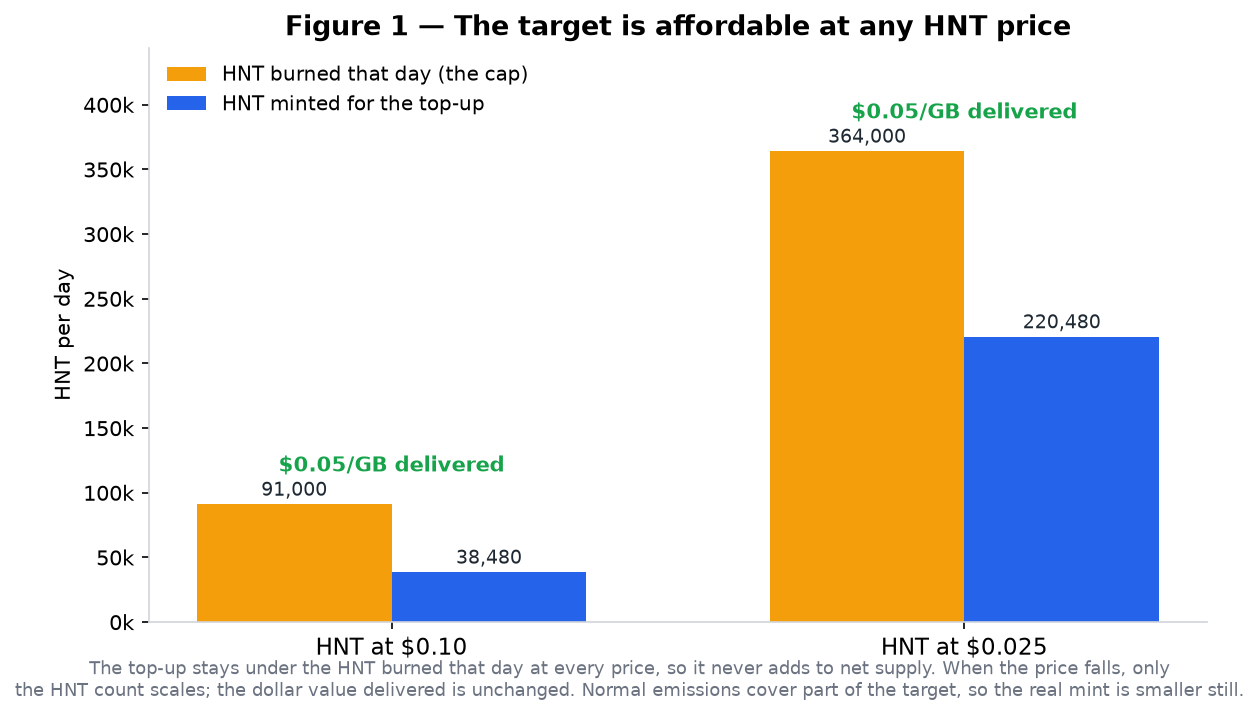
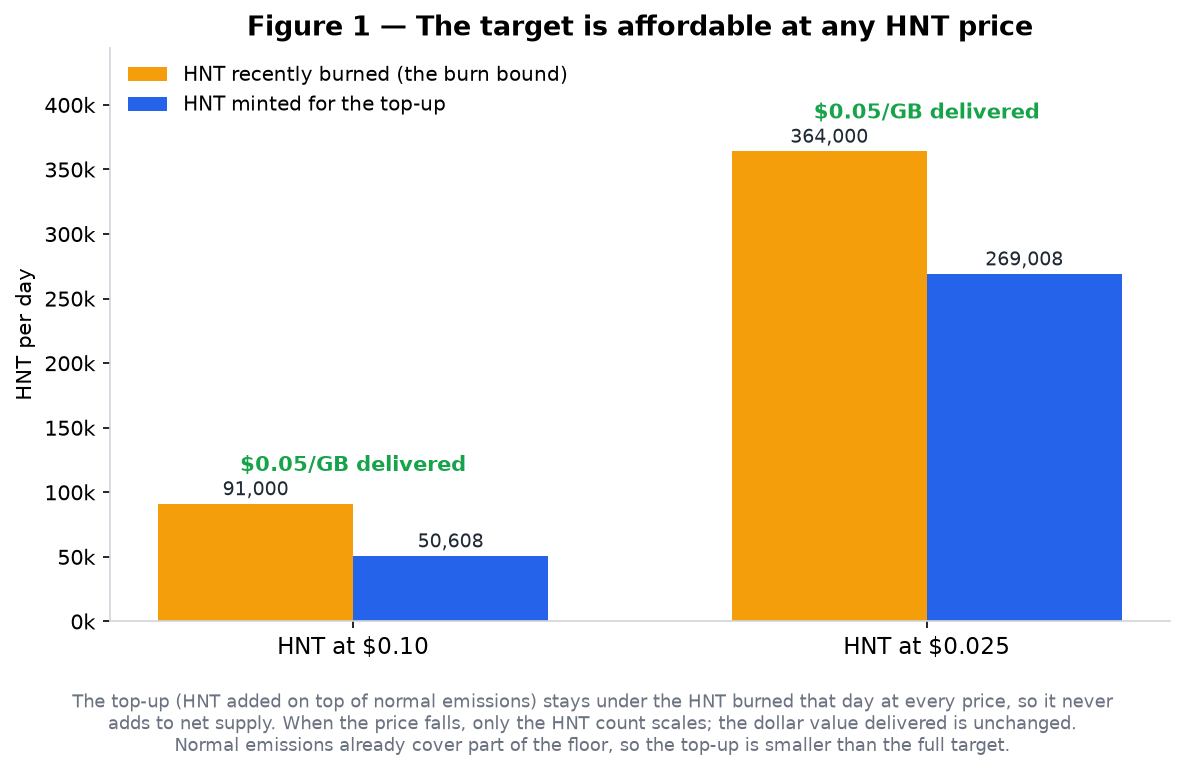
HIP 149: align Decision 1 figure inputs and tighten labels (#1227)
Align the figure inputs to the HIP body: alpha 0.75 -> 0.625 and baseline
16,640 -> 13,870 HNT/day (70% data bucket x ~0.89 Mobile share), which the
figures had retained from the earlier 84%-bucket draft. The top-up bars
become 50,608 / 269,008 HNT (still under the 91,000 / 364,000 burn bound) and
delivery holds at $0.05/GB at both prices.

Clarify the labels without changing the mechanism or the "top-up" term:
captions now state the top-up is HNT added on top of normal emissions (the
added amount, never the new daily total), and the burn-bounded series is
labeled "the burn bound" rather than "the cap" to avoid colliding with the
deployer earnings cap.

Pull request: HIP 149: align Decision 1 figure inputs and tighten labels
Regenerates the two Decision 1 figures. Keeps the "top-up" term (the reviewer is fine with it for the added amount); the change is the stale inputs plus label precision. Figures only.

## Numbers
- Aligned the figure inputs to the HIP body: `α` 0.75 → 0.625 and baseline 16,640 → 13,870 HNT/day (70% data bucket × ~0.89 Mobile share). The figures had retained the earlier 84%-bucket values.
- Top-up bars are now 50,608 / 269,008 HNT, still under the 91,000 / 364,000 burn bound; delivery holds at \$0.05/GB at both prices.

## Labels (no mechanism change)
- Captions now state the top-up is HNT **added on top of normal emissions** — the added amount, never the new daily total. That is the only correctness point the review raised; the bars already depicted the added amount.
- Burn-bounded series relabeled "the burn bound" (was "the cap") so it does not collide with the deployer **earnings** cap, which these figures are not about.

diff --git a/files/0149/figures.py b/files/0149/figures.py
@@ -4,8 +4,15 @@ HIP 149 Decision 1 figures.
 Run: uv run --with matplotlib python files/0149/figures.py
 
 Worked-example inputs: carrier pays a fixed ~$9,100/day for ~91,000 GB/day of
-offload (a ~$0.10/GB payer rate), Mobile data baseline ~16,640 HNT/day,
-alpha ~0.75, target = 50% of the payer rate = $0.05/GB.
+offload (a ~$0.10/GB payer rate), Mobile data deployer baseline ~13,870 HNT/day,
+alpha ~0.625 (70% data bucket x ~0.89 Mobile share), target = 50% of the payer
+rate = $0.05/GB.
+
+Terminology: the "top-up" is the HNT the mechanism adds on top of normal
+emissions (HIP 20 schedule + net-emissions re-emit) to reach the floor. New
+daily total emissions = normal emissions + top-up; the top-up is the added
+amount, never the total. The top-up is bounded by recently burned HNT (the burn
+bound), so it never adds to net supply.
 """
 
 import matplotlib.pyplot as plt
@@ -13,12 +20,12 @@ from matplotlib.ticker import FuncFormatter
 
 CARRIER_USD_DAY = 9_100.0
 GB_DAY = 91_000.0
-BASELINE_HNT = 16_640.0
-ALPHA = 0.75
+BASELINE_HNT = 13_870.0
+ALPHA = 0.625
 TARGET_USD_GB = 0.05  # 50% of the $0.10/GB payer rate
 
-CAP = "#f59e0b"      # HNT recently burned (the cap)
-TOPUP = "#2563eb"    # HNT minted for the top-up
+BURN = "#f59e0b"     # HNT recently burned (the burn bound)
+TOPUP = "#2563eb"    # HNT minted for the top-up (added on top of normal emissions)
 TARGET = "#16a34a"   # the target line
 INK = "#1f2933"
 MUTED = "#6b7280"
@@ -33,7 +40,7 @@ plt.rcParams.update({
 })
 
 
-def cap_for(price):
+def burn_bound_for(price):
     return CARRIER_USD_DAY / price
 
 
@@ -56,13 +63,13 @@ def thousands(x, _pos):
 def figure_one():
     prices = [0.10, 0.025]
     labels = ["HNT at $0.10", "HNT at $0.025"]
-    caps = [cap_for(p) for p in prices]
-    topups = [min(cap_for(p), topup_demand_for(p)) for p in prices]
+    bounds = [burn_bound_for(p) for p in prices]
+    topups = [min(burn_bound_for(p), topup_demand_for(p)) for p in prices]
 
     fig, ax = plt.subplots(figsize=(8, 4.6))
     x = range(len(prices))
     w = 0.34
-    b1 = ax.bar([i - w / 2 for i in x], caps, w, label="HNT burned that day (the cap)", color=CAP)
+    b1 = ax.bar([i - w / 2 for i in x], bounds, w, label="HNT recently burned (the burn bound)", color=BURN)
     b2 = ax.bar([i + w / 2 for i in x], topups, w, label="HNT minted for the top-up", color=TOPUP)
 
     for bars in (b1, b2):
@@ -71,22 +78,23 @@ def figure_one():
                         ha="center", va="bottom", fontsize=9, color=INK,
                         xytext=(0, 2), textcoords="offset points")
 
-    for i, c in enumerate(caps):
-        ax.annotate("$0.05/GB delivered", (i, c + max(caps) * 0.07), ha="center", fontsize=10,
+    for i, c in enumerate(bounds):
+        ax.annotate("$0.05/GB delivered", (i, c + max(bounds) * 0.07), ha="center", fontsize=10,
                     color=TARGET, fontweight="bold")
 
     ax.set_xticks(list(x))
     ax.set_xticklabels(labels, fontsize=11)
     ax.set_ylabel("HNT per day")
     ax.yaxis.set_major_formatter(FuncFormatter(thousands))
-    ax.set_ylim(0, max(caps) * 1.22)
+    ax.set_ylim(0, max(bounds) * 1.22)
     ax.set_title("Figure 1 — The target is affordable at any HNT price")
     ax.legend(loc="upper left", frameon=False, fontsize=9.5)
     ax.spines[["top", "right"]].set_visible(False)
-    fig.text(0.5, -0.02,
-             "The top-up stays under the HNT burned that day at every price, so it never adds to net supply. "
-             "When the price falls, only\nthe HNT count scales; the dollar value delivered is unchanged. "
-             "Normal emissions cover part of the target, so the real mint is smaller still.",
+    fig.text(0.5, -0.10,
+             "The top-up (HNT added on top of normal emissions) stays under the HNT burned that day at every "
+             "price, so it never\nadds to net supply. When the price falls, only the HNT count scales; the dollar value "
+             "delivered is unchanged.\nNormal emissions already cover part of the floor, so the top-up is smaller "
+             "than the full target.",
              ha="center", fontsize=8.5, color=MUTED)
     fig.tight_layout()
     fig.savefig("files/0149/decision-1-affordable-at-any-price.png", bbox_inches="tight")
@@ -104,11 +112,11 @@ def figure_two():
 
     def smoothed(e):
         if e < crash:
-            return cap_for(0.10)          # 91,000
+            return burn_bound_for(0.10)          # 91,000
         if e >= ramp_end:
-            return cap_for(0.025)         # 364,000
+            return burn_bound_for(0.025)         # 364,000
         frac = (e - crash) / (ramp_end - crash)
-        return cap_for(0.10) + frac * (cap_for(0.025) - cap_for(0.10))
+        return burn_bound_for(0.10) + frac * (burn_bound_for(0.025) - burn_bound_for(0.10))
 
     delivered = [delivered_usd_gb(price(e), smoothed(e)) for e in epochs]
     target = [TARGET_USD_GB] * len(epochs)
@@ -135,12 +143,12 @@ def figure_two():
     ax.spines[["top"]].set_visible(False)
 
     ax2 = ax.twinx()
-    ax2.plot(epochs, burn, color=CAP, lw=1.6, ls="-", alpha=0.8,
-             label="HNT recently burned (the cap)")
-    ax2.set_ylabel("HNT recently burned (the cap)", color=CAP)
-    ax2.tick_params(axis="y", colors=CAP)
+    ax2.plot(epochs, burn, color=BURN, lw=1.6, ls="-", alpha=0.8,
+             label="HNT recently burned (the burn bound)")
+    ax2.set_ylabel("HNT recently burned (the burn bound)", color=BURN)
+    ax2.tick_params(axis="y", colors=BURN)
     ax2.yaxis.set_major_formatter(FuncFormatter(thousands))
-    ax2.set_ylim(0, cap_for(0.025) * 1.1)
+    ax2.set_ylim(0, burn_bound_for(0.025) * 1.1)
     ax2.spines[["top"]].set_visible(False)
 
     lines1, lab1 = ax.get_legend_handles_labels()
@@ -148,8 +156,8 @@ def figure_two():
     ax.legend(lines1 + lines2, lab1 + lab2, loc="lower right", frameon=False, fontsize=9)
 
     fig.text(0.5, -0.02,
-             "The top-up is capped at HNT recently burned. When the price drops, that average lags for 1–2 weeks, "
-             "so delivery falls short\nof the target; as the burn average catches up, the cap stops binding and delivery "
+             "The top-up is bounded by HNT recently burned. When the price drops, that average lags for 1–2 weeks, "
+             "so delivery\nfalls short of the target; as the burn average catches up, the bound stops binding and delivery "
              "returns to the full target.",
              ha="center", fontsize=8.5, color=MUTED)
     fig.tight_layout()